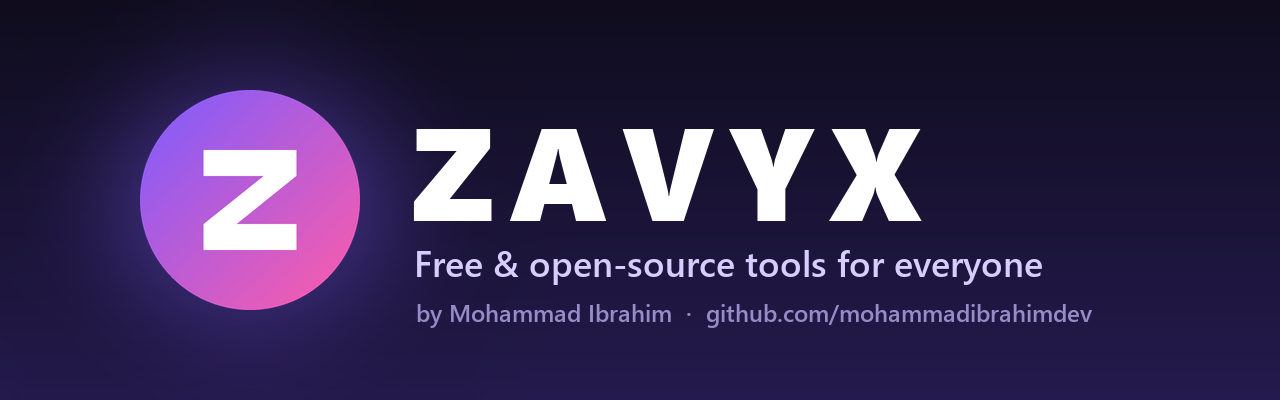
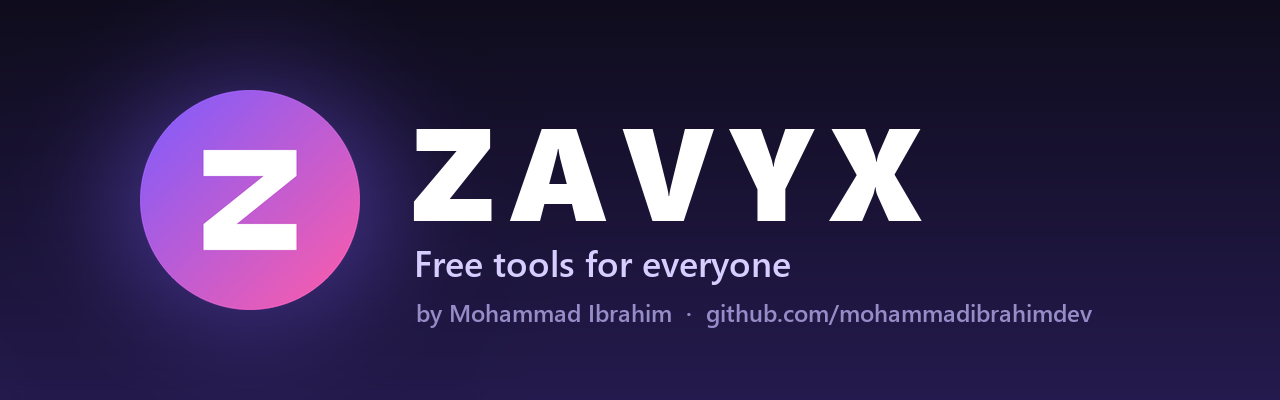
Describe Zavyx tools as free (freeware), not open source

Changed region(s): [[0.375, 0.63, 0.8125, 0.72]]

diff --git a/scripts/gen_brand.py b/scripts/gen_brand.py
@@ -28,7 +28,7 @@ BG_BOTTOM = (36, 26, 77)
 Z = [(74, 70), (182, 70), (182, 100), (112, 156), (182, 156),
      (182, 186), (74, 186), (74, 156), (144, 100), (74, 100)]
 
-TAGLINE = "Free & open-source tools for everyone"
+TAGLINE = "Free tools for everyone"
 BYLINE = "by Mohammad Ibrahim  ·  github.com/mohammadibrahimdev"
 
 

diff --git a/README.md b/README.md
@@ -1,10 +1,10 @@
 <p align="center">
-  <img src="assets/banner.png" alt="Zavyx — free and open-source tools for everyone" width="100%">
+  <img src="assets/banner.png" alt="Zavyx — free tools for everyone" width="100%">
 </p>
 
 <p align="center">
-  <b>Zavyx</b> is a family of free, open-source desktop tools — built to be simple, fast and respectful of your privacy.<br>
-  No ads. No trials. No tracking. Just useful software you can read, trust and improve.
+  <b>Zavyx</b> is a family of free desktop tools — built to be simple, fast and respectful of your privacy.<br>
+  No ads. No trials. No tracking. Just useful software you can trust.
 </p>
 
 <p align="center">
@@ -95,7 +95,7 @@
 | | |
 | --- | --- |
 | **Free forever** | No paid tiers, no trial timers, no nag screens. |
-| **Open source** | All code is public under the MIT licence — read it, build it, improve it. |
+| **Transparent** | The source code is public so anyone can read and check it. Free to use — not for sale or re-branding ([Zavyx Freeware License](https://github.com/mohammadibrahimdev/zavyx-video-editor/blob/main/LICENSE)). |
 | **Private** | No ads, no analytics, no data leaves your computer unless you ask it to. |
 | **Simple** | Clean, familiar interfaces that just work for everyday users. |
 
